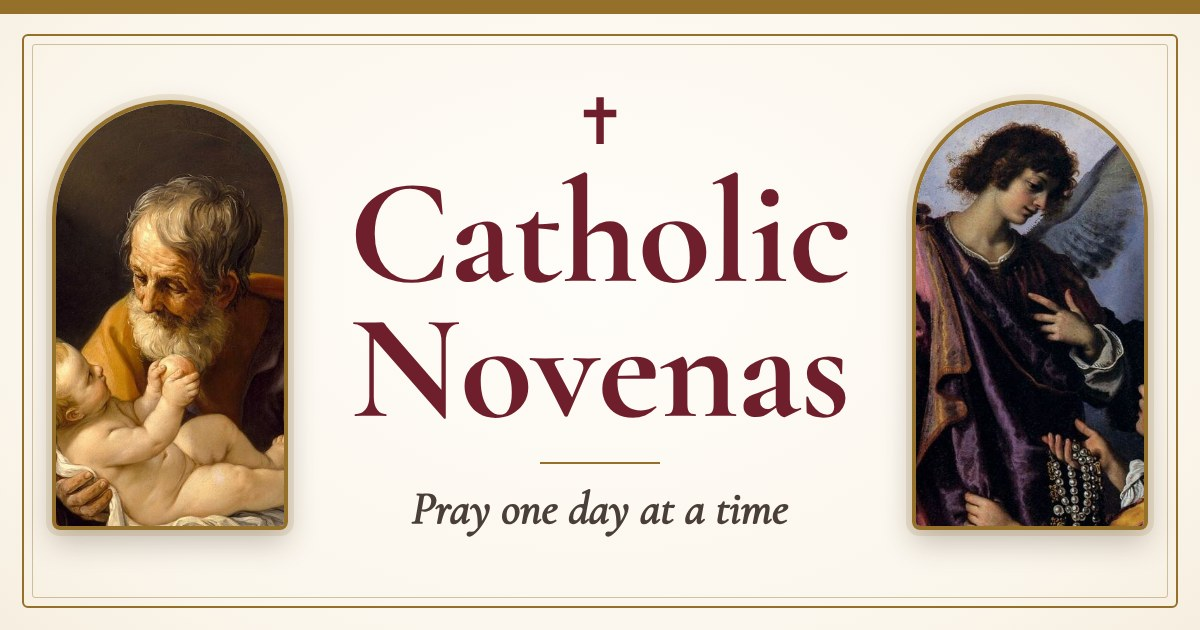
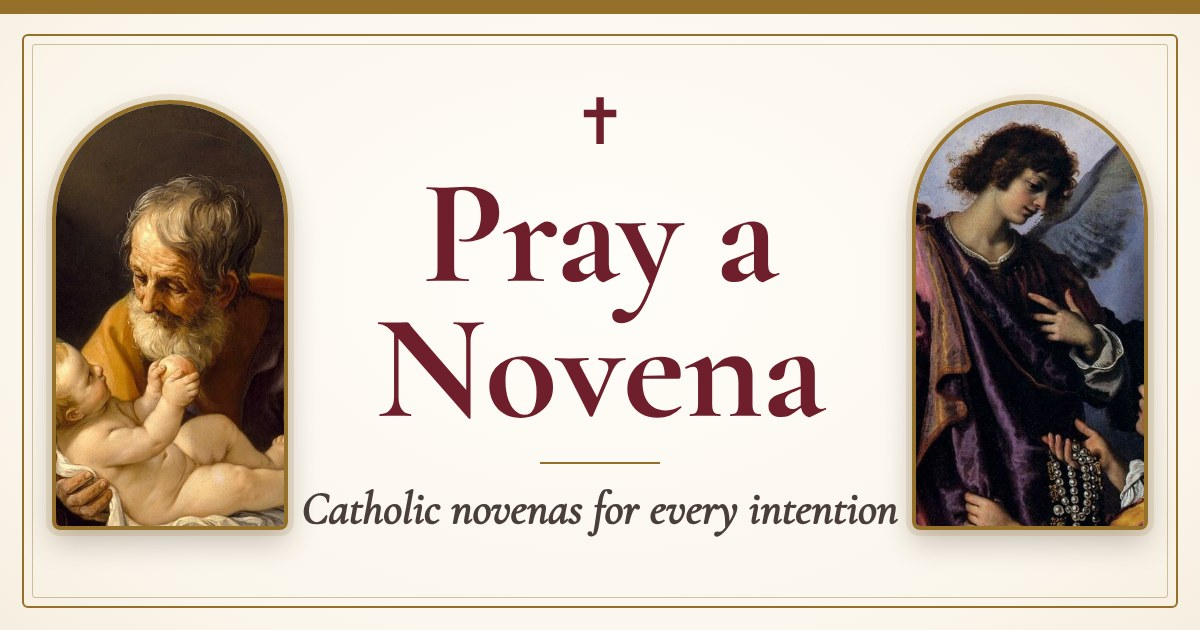
Rename the site to Pray a Novena (phase A: name and tagline; domain switch planned in PROJECT_LOG)

Changed region(s): [[0.2775, 0.2714, 0.7092, 0.5127], [0.2775, 0.5127, 0.7092, 0.6635], [0.2467, 0.7841, 0.74, 0.8444]]

diff --git a/site/about/index.html b/site/about/index.html
@@ -3,18 +3,18 @@
 <head>
 <meta charset="utf-8">
 <meta name="viewport" content="width=device-width, initial-scale=1, viewport-fit=cover">
-<title>What is a novena? | Catholic Novenas</title>
-<meta name="apple-mobile-web-app-title" content="Catholic Novenas">
+<title>What is a novena? | Pray a Novena</title>
+<meta name="apple-mobile-web-app-title" content="Pray a Novena">
 <meta name="description" content="What a novena is, how to pray one, and why Catholics ask the saints to pray for us.">
 <meta name="theme-color" content="#FFFDF9" media="(prefers-color-scheme: light)">
 <meta name="theme-color" content="#0E1524" media="(prefers-color-scheme: dark)">
 <meta property="og:type" content="website">
-<meta property="og:site_name" content="Catholic Novenas">
+<meta property="og:site_name" content="Pray a Novena">
 <meta property="og:url" content="https://catholic-novenas.netlify.app/about/">
-<meta property="og:title" content="What is a novena? | Catholic Novenas">
+<meta property="og:title" content="What is a novena? | Pray a Novena">
 <meta property="og:description" content="What a novena is, how to pray one, and why Catholics ask the saints to pray for us.">
-<meta property="og:image" content="https://catholic-novenas.netlify.app/og.jpg?v=5d6487b4">
-<meta property="og:image:alt" content="Catholic Novenas: pray one day at a time">
+<meta property="og:image" content="https://catholic-novenas.netlify.app/og.jpg?v=8e6cd507">
+<meta property="og:image:alt" content="Pray a Novena: Catholic novenas for every intention">
 <meta property="og:image:width" content="1200"><meta property="og:image:height" content="630">
 <meta name="twitter:card" content="summary_large_image">
 <link rel="canonical" href="https://catholic-novenas.netlify.app/about/">
@@ -224,7 +224,7 @@ q,.q{font-style:italic}
 <svg xmlns="http://www.w3.org/2000/svg" style="display:none" aria-hidden="true"><symbol id="i-cross" viewBox="0 0 256 256"><path d="M200,72H160V32a16,16,0,0,0-16-16H112A16,16,0,0,0,96,32V72H56A16,16,0,0,0,40,88v32a16,16,0,0,0,16,16H96v88a16,16,0,0,0,16,16h32a16,16,0,0,0,16-16V136h40a16,16,0,0,0,16-16V88A16,16,0,0,0,200,72Zm0,48H152a8,8,0,0,0-8,8v96H112V128a8,8,0,0,0-8-8H56V88h48a8,8,0,0,0,8-8V32h32V80a8,8,0,0,0,8,8h48Z"/></symbol><symbol id="i-sun" viewBox="0 0 256 256"><path d="M120,40V16a8,8,0,0,1,16,0V40a8,8,0,0,1-16,0Zm72,88a64,64,0,1,1-64-64A64.07,64.07,0,0,1,192,128Zm-16,0a48,48,0,1,0-48,48A48.05,48.05,0,0,0,176,128ZM58.34,69.66A8,8,0,0,0,69.66,58.34l-16-16A8,8,0,0,0,42.34,53.66Zm0,116.68-16,16a8,8,0,0,0,11.32,11.32l16-16a8,8,0,0,0-11.32-11.32ZM192,72a8,8,0,0,0,5.66-2.34l16-16a8,8,0,0,0-11.32-11.32l-16,16A8,8,0,0,0,192,72Zm5.66,114.34a8,8,0,0,0-11.32,11.32l16,16a8,8,0,0,0,11.32-11.32ZM48,128a8,8,0,0,0-8-8H16a8,8,0,0,0,0,16H40A8,8,0,0,0,48,128Zm80,80a8,8,0,0,0-8,8v24a8,8,0,0,0,16,0V216A8,8,0,0,0,128,208Zm112-88H216a8,8,0,0,0,0,16h24a8,8,0,0,0,0-16Z"/></symbol><symbol id="i-moon" viewBox="0 0 256 256"><path d="M233.54,142.23a8,8,0,0,0-8-2,88.08,88.08,0,0,1-109.8-109.8,8,8,0,0,0-10-10,104.84,104.84,0,0,0-52.91,37A104,104,0,0,0,136,224a103.09,103.09,0,0,0,62.52-20.88,104.84,104.84,0,0,0,37-52.91A8,8,0,0,0,233.54,142.23ZM188.9,190.34A88,88,0,0,1,65.66,67.11a89,89,0,0,1,31.4-26A106,106,0,0,0,96,56,104.11,104.11,0,0,0,200,160a106,106,0,0,0,14.92-1.06A89,89,0,0,1,188.9,190.34Z"/></symbol><symbol id="i-text-aa" viewBox="0 0 256 256"><path d="M87.24,52.59a8,8,0,0,0-14.48,0l-64,136a8,8,0,1,0,14.48,6.81L39.9,160h80.2l16.66,35.4a8,8,0,1,0,14.48-6.81ZM47.43,144,80,74.79,112.57,144ZM200,96c-12.76,0-22.73,3.47-29.63,10.32a8,8,0,0,0,11.26,11.36c3.8-3.77,10-5.68,18.37-5.68,13.23,0,24,9,24,20v3.22A42.76,42.76,0,0,0,200,128c-22.06,0-40,16.15-40,36s17.94,36,40,36a42.73,42.73,0,0,0,24-7.25,8,8,0,0,0,16-.75V132C240,112.15,222.06,96,200,96Zm0,88c-13.23,0-24-9-24-20s10.77-20,24-20,24,9,24,20S213.23,184,200,184Z"/></symbol><symbol id="i-arrow-left" viewBox="0 0 256 256"><path d="M224,128a8,8,0,0,1-8,8H59.31l58.35,58.34a8,8,0,0,1-11.32,11.32l-72-72a8,8,0,0,1,0-11.32l72-72a8,8,0,0,1,11.32,11.32L59.31,120H216A8,8,0,0,1,224,128Z"/></symbol><symbol id="i-arrow-right" viewBox="0 0 256 256"><path d="M221.66,133.66l-72,72a8,8,0,0,1-11.32-11.32L196.69,136H40a8,8,0,0,1,0-16H196.69L138.34,61.66a8,8,0,0,1,11.32-11.32l72,72A8,8,0,0,1,221.66,133.66Z"/></symbol></svg>
 <header class="bar">
   <div class="wrap">
-    <a class="home" href="../index.html"><svg class="i back-ic" aria-hidden="true" focusable="false"><use href="#i-arrow-left"/></svg><svg class="i mark" aria-hidden="true" focusable="false"><use href="#i-cross"/></svg><span class="name">Catholic Novenas</span><span class="sr"> (all novenas)</span></a>
+    <a class="home" href="../index.html"><svg class="i back-ic" aria-hidden="true" focusable="false"><use href="#i-arrow-left"/></svg><svg class="i mark" aria-hidden="true" focusable="false"><use href="#i-cross"/></svg><span class="name">Pray a Novena</span><span class="sr"> (all novenas)</span></a>
     <button class="iconbtn" id="sizeBtn" type="button" aria-expanded="false" aria-controls="sizer" aria-label="Text size" title="Text size"><svg class="i" aria-hidden="true" focusable="false"><use href="#i-text-aa"/></svg><span>Text</span></button>
     <div class="sizer" id="sizer" role="group" aria-label="Text size">
       <button type="button" data-scale="1" aria-label="Normal text" style="font-size:15px">A</button>
@@ -370,7 +370,7 @@ q,.q{font-style:italic}
   <section id="site" class="textonly">
     <h2 class="h2">About this site</h2>
     <div class="body">
-      <p class="lead">Catholic Novenas is a small, free library of novenas, made by Chav so that anyone can pray one day at a time. It is a personal project, not an official Church publication, and it has no ads, no accounts and nothing to buy.</p>
+      <p class="lead">Pray a Novena is a small, free library of Catholic novenas, made by Chav so that anyone can pray one day at a time. It is a personal project, not an official Church publication, and it has no ads, no accounts and nothing to buy.</p>
       <h3 class="h3">Why I made this</h3>
       <p>I’m Chav, a grateful Roman Catholic. My faith took root at Don Bosco Technical Center in Cebu, Philippines, so I am a Bosconian at heart, and today I serve at The Feast, a Catholic prayer gathering of the Light of Jesus Family.</p>
       <p>I work in computer science, software engineering and AI. Inspired by St.&nbsp;Carlo Acutis, I want to use those gifts to help people pray, and to give all the glory to God.</p>
@@ -384,7 +384,7 @@ q,.q{font-style:italic}
       <p>The traditional prayers here, such as the Our Father, the Hail Mary, the Glory Be and the Memorare, are the Church’s own. Scripture is quoted from the Revised Standard Version, Catholic Edition, and checked word for word.</p>
       <p>The opening prayers, reflections and daily prayers are new, written for this site with the help of AI. They aim to be faithful to Scripture and the teaching of the Church, but no priest has reviewed them yet, and they carry no imprimatur (a bishop’s approval to publish). Pray them as a private devotion, and take any question to your parish priest.</p>
       <h3 class="h3">Found a mistake?</h3>
-      <p>If you notice an error in a prayer, a Scripture reference or a saint’s story, please email <a href="mailto:hey.there.chav@gmail.com?subject=Catholic%20Novenas">hey.there.chav@gmail.com</a> so it can be corrected. Questions and suggestions are welcome at the same address. How this site handles your data is on the <a href="../privacy/index.html">privacy page</a>.</p>
+      <p>If you notice an error in a prayer, a Scripture reference or a saint’s story, please email <a href="mailto:hey.there.chav@gmail.com?subject=Pray%20a%20Novena">hey.there.chav@gmail.com</a> so it can be corrected. Questions and suggestions are welcome at the same address. How this site handles your data is on the <a href="../privacy/index.html">privacy page</a>.</p>
     </div>
   </section>
 

diff --git a/site/privacy/index.html b/site/privacy/index.html
@@ -3,15 +3,15 @@
 <head>
 <meta charset="utf-8">
 <meta name="viewport" content="width=device-width, initial-scale=1, viewport-fit=cover">
-<title>Privacy | Catholic Novenas</title>
-<meta name="apple-mobile-web-app-title" content="Catholic Novenas">
-<meta name="description" content="What Catholic Novenas keeps, and where: your progress and intentions stay on your device. No accounts, ads or cookies.">
+<title>Privacy | Pray a Novena</title>
+<meta name="apple-mobile-web-app-title" content="Pray a Novena">
+<meta name="description" content="What Pray a Novena keeps, and where: your progress and intentions stay on your device. No accounts, ads or cookies.">
 <meta name="theme-color" content="#FFFDF9" media="(prefers-color-scheme: light)">
 <meta name="theme-color" content="#0E1524" media="(prefers-color-scheme: dark)">
 <meta property="og:type" content="website">
-<meta property="og:site_name" content="Catholic Novenas">
+<meta property="og:site_name" content="Pray a Novena">
 <meta property="og:url" content="https://catholic-novenas.netlify.app/privacy/">
-<meta property="og:title" content="Privacy | Catholic Novenas">
+<meta property="og:title" content="Privacy | Pray a Novena">
 <meta property="og:description" content="Your progress and intentions stay on your device. No accounts, ads or cookies.">
 <link rel="canonical" href="https://catholic-novenas.netlify.app/privacy/">
 <link rel="icon" href="../favicon.svg" type="image/svg+xml">
@@ -115,7 +115,7 @@ ul.list li::marker{color:var(--gold)}
 <svg xmlns="http://www.w3.org/2000/svg" style="display:none" aria-hidden="true"><symbol id="i-cross" viewBox="0 0 256 256"><path d="M200,72H160V32a16,16,0,0,0-16-16H112A16,16,0,0,0,96,32V72H56A16,16,0,0,0,40,88v32a16,16,0,0,0,16,16H96v88a16,16,0,0,0,16,16h32a16,16,0,0,0,16-16V136h40a16,16,0,0,0,16-16V88A16,16,0,0,0,200,72Zm0,48H152a8,8,0,0,0-8,8v96H112V128a8,8,0,0,0-8-8H56V88h48a8,8,0,0,0,8-8V32h32V80a8,8,0,0,0,8,8h48Z"/></symbol><symbol id="i-sun" viewBox="0 0 256 256"><path d="M120,40V16a8,8,0,0,1,16,0V40a8,8,0,0,1-16,0Zm72,88a64,64,0,1,1-64-64A64.07,64.07,0,0,1,192,128Zm-16,0a48,48,0,1,0-48,48A48.05,48.05,0,0,0,176,128ZM58.34,69.66A8,8,0,0,0,69.66,58.34l-16-16A8,8,0,0,0,42.34,53.66Zm0,116.68-16,16a8,8,0,0,0,11.32,11.32l16-16a8,8,0,0,0-11.32-11.32ZM192,72a8,8,0,0,0,5.66-2.34l16-16a8,8,0,0,0-11.32-11.32l-16,16A8,8,0,0,0,192,72Zm5.66,114.34a8,8,0,0,0-11.32,11.32l16,16a8,8,0,0,0,11.32-11.32ZM48,128a8,8,0,0,0-8-8H16a8,8,0,0,0,0,16H40A8,8,0,0,0,48,128Zm80,80a8,8,0,0,0-8,8v24a8,8,0,0,0,16,0V216A8,8,0,0,0,128,208Zm112-88H216a8,8,0,0,0,0,16h24a8,8,0,0,0,0-16Z"/></symbol><symbol id="i-moon" viewBox="0 0 256 256"><path d="M233.54,142.23a8,8,0,0,0-8-2,88.08,88.08,0,0,1-109.8-109.8,8,8,0,0,0-10-10,104.84,104.84,0,0,0-52.91,37A104,104,0,0,0,136,224a103.09,103.09,0,0,0,62.52-20.88,104.84,104.84,0,0,0,37-52.91A8,8,0,0,0,233.54,142.23ZM188.9,190.34A88,88,0,0,1,65.66,67.11a89,89,0,0,1,31.4-26A106,106,0,0,0,96,56,104.11,104.11,0,0,0,200,160a106,106,0,0,0,14.92-1.06A89,89,0,0,1,188.9,190.34Z"/></symbol><symbol id="i-text-aa" viewBox="0 0 256 256"><path d="M87.24,52.59a8,8,0,0,0-14.48,0l-64,136a8,8,0,1,0,14.48,6.81L39.9,160h80.2l16.66,35.4a8,8,0,1,0,14.48-6.81ZM47.43,144,80,74.79,112.57,144ZM200,96c-12.76,0-22.73,3.47-29.63,10.32a8,8,0,0,0,11.26,11.36c3.8-3.77,10-5.68,18.37-5.68,13.23,0,24,9,24,20v3.22A42.76,42.76,0,0,0,200,128c-22.06,0-40,16.15-40,36s17.94,36,40,36a42.73,42.73,0,0,0,24-7.25,8,8,0,0,0,16-.75V132C240,112.15,222.06,96,200,96Zm0,88c-13.23,0-24-9-24-20s10.77-20,24-20,24,9,24,20S213.23,184,200,184Z"/></symbol><symbol id="i-arrow-left" viewBox="0 0 256 256"><path d="M224,128a8,8,0,0,1-8,8H59.31l58.35,58.34a8,8,0,0,1-11.32,11.32l-72-72a8,8,0,0,1,0-11.32l72-72a8,8,0,0,1,11.32,11.32L59.31,120H216A8,8,0,0,1,224,128Z"/></symbol></svg>
 <header class="bar">
   <div class="wrap">
-    <a class="home" href="../index.html"><svg class="i back-ic" aria-hidden="true" focusable="false"><use href="#i-arrow-left"/></svg><svg class="i mark" aria-hidden="true" focusable="false"><use href="#i-cross"/></svg><span class="name">Catholic Novenas</span><span class="sr"> (all novenas)</span></a>
+    <a class="home" href="../index.html"><svg class="i back-ic" aria-hidden="true" focusable="false"><use href="#i-arrow-left"/></svg><svg class="i mark" aria-hidden="true" focusable="false"><use href="#i-cross"/></svg><span class="name">Pray a Novena</span><span class="sr"> (all novenas)</span></a>
     <button class="iconbtn" id="sizeBtn" type="button" aria-expanded="false" aria-controls="sizer" aria-label="Text size" title="Text size"><svg class="i" aria-hidden="true" focusable="false"><use href="#i-text-aa"/></svg><span>Text</span></button>
     <div class="sizer" id="sizer" role="group" aria-label="Text size">
       <button type="button" data-scale="1" aria-label="Normal text" style="font-size:15px">A</button>
@@ -162,7 +162,7 @@ ul.list li::marker{color:var(--gold)}
     </div>
     <p style="margin-top:12px">You can also clear this site’s data in your browser’s settings.</p>
 
-    <p class="updated">Questions about privacy: <a href="mailto:hey.there.chav@gmail.com?subject=Catholic%20Novenas%20privacy">hey.there.chav@gmail.com</a>. Last updated 20&nbsp;November&nbsp;2026.</p>
+    <p class="updated">Questions about privacy: <a href="mailto:hey.there.chav@gmail.com?subject=Pray%20a%20Novena%20privacy">hey.there.chav@gmail.com</a>. Last updated 20&nbsp;November&nbsp;2026.</p>
   </div>
 </main>
 <footer class="site-foot">

diff --git a/templates/about.html b/templates/about.html
@@ -3,8 +3,8 @@
 <head>
 <meta charset="utf-8">
 <meta name="viewport" content="width=device-width, initial-scale=1, viewport-fit=cover">
-<title>What is a novena? | Catholic Novenas</title>
-<meta name="apple-mobile-web-app-title" content="Catholic Novenas">
+<title>What is a novena? | Pray a Novena</title>
+<meta name="apple-mobile-web-app-title" content="Pray a Novena">
 <meta name="description" content="What a novena is, how to pray one, and why Catholics ask the saints to pray for us.">
 <meta name="theme-color" content="#FFFDF9" media="(prefers-color-scheme: light)">
 <meta name="theme-color" content="#0E1524" media="(prefers-color-scheme: dark)">
@@ -196,7 +196,7 @@ q,.q{font-style:italic}
 {{SPRITE}}
 <header class="bar">
   <div class="wrap">
-    <a class="home" href="{{HOME_HREF}}"><svg class="i back-ic" aria-hidden="true" focusable="false"><use href="#i-arrow-left"/></svg><svg class="i mark" aria-hidden="true" focusable="false"><use href="#i-cross"/></svg><span class="name">Catholic Novenas</span><span class="sr"> (all novenas)</span></a>
+    <a class="home" href="{{HOME_HREF}}"><svg class="i back-ic" aria-hidden="true" focusable="false"><use href="#i-arrow-left"/></svg><svg class="i mark" aria-hidden="true" focusable="false"><use href="#i-cross"/></svg><span class="name">Pray a Novena</span><span class="sr"> (all novenas)</span></a>
     <button class="iconbtn" id="sizeBtn" type="button" aria-expanded="false" aria-controls="sizer" aria-label="Text size" title="Text size"><svg class="i" aria-hidden="true" focusable="false"><use href="#i-text-aa"/></svg><span>Text</span></button>
     <div class="sizer" id="sizer" role="group" aria-label="Text size">
       <button type="button" data-scale="1" aria-label="Normal text" style="font-size:15px">A</button>
@@ -330,7 +330,7 @@ q,.q{font-style:italic}
   <section id="site" class="textonly">
     <h2 class="h2">About this site</h2>
     <div class="body">
-      <p class="lead">Catholic Novenas is a small, free library of novenas, made by Chav so that anyone can pray one day at a time. It is a personal project, not an official Church publication, and it has no ads, no accounts and nothing to buy.</p>
+      <p class="lead">Pray a Novena is a small, free library of Catholic novenas, made by Chav so that anyone can pray one day at a time. It is a personal project, not an official Church publication, and it has no ads, no accounts and nothing to buy.</p>
       <h3 class="h3">Why I made this</h3>
       <p>I’m Chav, a grateful Roman Catholic. My faith took root at Don Bosco Technical Center in Cebu, Philippines, so I am a Bosconian at heart, and today I serve at The Feast, a Catholic prayer gathering of the Light of Jesus Family.</p>
       <p>I work in computer science, software engineering and AI. Inspired by St.&nbsp;Carlo Acutis, I want to use those gifts to help people pray, and to give all the glory to God.</p>
@@ -344,7 +344,7 @@ q,.q{font-style:italic}
       <p>The traditional prayers here, such as the Our Father, the Hail Mary, the Glory Be and the Memorare, are the Church’s own. Scripture is quoted from the Revised Standard Version, Catholic Edition, and checked word for word.</p>
       <p>The opening prayers, reflections and daily prayers are new, written for this site with the help of AI. They aim to be faithful to Scripture and the teaching of the Church, but no priest has reviewed them yet, and they carry no imprimatur (a bishop’s approval to publish). Pray them as a private devotion, and take any question to your parish priest.</p>
       <h3 class="h3">Found a mistake?</h3>
-      <p>If you notice an error in a prayer, a Scripture reference or a saint’s story, please email <a href="mailto:hey.there.chav@gmail.com?subject=Catholic%20Novenas">hey.there.chav@gmail.com</a> so it can be corrected. Questions and suggestions are welcome at the same address. How this site handles your data is on the <a href="{{UP}}privacy/index.html">privacy page</a>.</p>
+      <p>If you notice an error in a prayer, a Scripture reference or a saint’s story, please email <a href="mailto:hey.there.chav@gmail.com?subject=Pray%20a%20Novena">hey.there.chav@gmail.com</a> so it can be corrected. Questions and suggestions are welcome at the same address. How this site handles your data is on the <a href="{{UP}}privacy/index.html">privacy page</a>.</p>
     </div>
   </section>
 

diff --git a/site/index.html b/site/index.html
@@ -3,18 +3,18 @@
 <head>
 <meta charset="utf-8">
 <meta name="viewport" content="width=device-width, initial-scale=1, viewport-fit=cover">
-<title>Catholic Novenas: 9 days of prayer, one day at a time</title>
-<meta name="apple-mobile-web-app-title" content="Catholic Novenas">
+<title>Pray a Novena · Catholic novenas for every intention</title>
+<meta name="apple-mobile-web-app-title" content="Pray a Novena">
 <meta name="description" content="9-day Catholic novenas with Scripture, reflections and the prayers of the saints, on your phone or on paper.">
 <meta name="theme-color" content="#FFFDF9" media="(prefers-color-scheme: light)">
 <meta name="theme-color" content="#0E1524" media="(prefers-color-scheme: dark)">
 <meta property="og:type" content="website">
-<meta property="og:site_name" content="Catholic Novenas">
+<meta property="og:site_name" content="Pray a Novena">
 <meta property="og:url" content="https://catholic-novenas.netlify.app/">
-<meta property="og:title" content="Catholic Novenas: 9 days of prayer, one day at a time">
+<meta property="og:title" content="Pray a Novena · Catholic novenas for every intention">
 <meta property="og:description" content="9-day Catholic novenas with Scripture, reflections and the prayers of the saints, on your phone or on paper.">
-<meta property="og:image" content="https://catholic-novenas.netlify.app/og.jpg?v=5d6487b4">
-<meta property="og:image:alt" content="Catholic Novenas: pray one day at a time">
+<meta property="og:image" content="https://catholic-novenas.netlify.app/og.jpg?v=8e6cd507">
+<meta property="og:image:alt" content="Pray a Novena: Catholic novenas for every intention">
 <meta property="og:image:type" content="image/jpeg">
 <meta property="og:image:width" content="1200"><meta property="og:image:height" content="630">
 <meta name="twitter:card" content="summary_large_image">
@@ -206,7 +206,7 @@ h1{font-family:var(--display);font-weight:700;color:var(--wine);font-size:clamp(
 <header class="bar">
   <div class="wrap">
     <svg class="i mark" aria-hidden="true" focusable="false"><use href="#i-cross"/></svg>
-    <span class="name">Catholic Novenas</span>
+    <span class="name">Pray a Novena</span>
     <span class="spacer"></span>
     <a class="navlink" href="about/index.html">About</a>
     <button class="iconbtn" id="sizeBtn" type="button" aria-expanded="false" aria-controls="sizer" aria-label="Text size" title="Text size"><svg class="i" aria-hidden="true" focusable="false"><use href="#i-text-aa"/></svg><span>Text</span></button>
@@ -223,8 +223,8 @@ h1{font-family:var(--display);font-weight:700;color:var(--wine);font-size:clamp(
   <div class="hero">
     <div class="cross" aria-hidden="true"><svg class="i" aria-hidden="true" focusable="false"><use href="#i-cross"/></svg></div>
     <p class="kicker">9 days of prayer</p>
-    <h1>Catholic Novenas</h1>
-    <p class="lede">Pray one day at a time.</p>
+    <h1>Pray a Novena</h1>
+    <p class="lede">Catholic novenas for every intention.</p>
   </div>
 
   <h2 class="h2" id="listHead" tabindex="-1">Choose a novena</h2>

diff --git a/templates/library.html b/templates/library.html
@@ -3,18 +3,18 @@
 <head>
 <meta charset="utf-8">
 <meta name="viewport" content="width=device-width, initial-scale=1, viewport-fit=cover">
-<title>Catholic Novenas: 9 days of prayer, one day at a time</title>
-<meta name="apple-mobile-web-app-title" content="Catholic Novenas">
+<title>Pray a Novena · Catholic novenas for every intention</title>
+<meta name="apple-mobile-web-app-title" content="Pray a Novena">
 <meta name="description" content="9-day Catholic novenas with Scripture, reflections and the prayers of the saints, on your phone or on paper.">
 <meta name="theme-color" content="#FFFDF9" media="(prefers-color-scheme: light)">
 <meta name="theme-color" content="#0E1524" media="(prefers-color-scheme: dark)">
 <meta property="og:type" content="website">
-<meta property="og:site_name" content="Catholic Novenas">
+<meta property="og:site_name" content="Pray a Novena">
 <meta property="og:url" content="https://catholic-novenas.netlify.app/">
-<meta property="og:title" content="Catholic Novenas: 9 days of prayer, one day at a time">
+<meta property="og:title" content="Pray a Novena · Catholic novenas for every intention">
 <meta property="og:description" content="9-day Catholic novenas with Scripture, reflections and the prayers of the saints, on your phone or on paper.">
 <meta property="og:image" content="https://catholic-novenas.netlify.app/og.jpg?v={{OG_VER}}">
-<meta property="og:image:alt" content="Catholic Novenas: pray one day at a time">
+<meta property="og:image:alt" content="Pray a Novena: Catholic novenas for every intention">
 <meta property="og:image:type" content="image/jpeg">
 <meta property="og:image:width" content="1200"><meta property="og:image:height" content="630">
 <meta name="twitter:card" content="summary_large_image">
@@ -190,7 +190,7 @@ h1{font-family:var(--display);font-weight:700;color:var(--wine);font-size:clamp(
 <header class="bar">
   <div class="wrap">
     <svg class="i mark" aria-hidden="true" focusable="false"><use href="#i-cross"/></svg>
-    <span class="name">Catholic Novenas</span>
+    <span class="name">Pray a Novena</span>
     <span class="spacer"></span>
     <a class="navlink" href="about/index.html">About</a>
     <button class="iconbtn" id="sizeBtn" type="button" aria-expanded="false" aria-controls="sizer" aria-label="Text size" title="Text size"><svg class="i" aria-hidden="true" focusable="false"><use href="#i-text-aa"/></svg><span>Text</span></button>
@@ -207,8 +207,8 @@ h1{font-family:var(--display);font-weight:700;color:var(--wine);font-size:clamp(
   <div class="hero">
     <div class="cross" aria-hidden="true"><svg class="i" aria-hidden="true" focusable="false"><use href="#i-cross"/></svg></div>
     <p class="kicker">9 days of prayer</p>
-    <h1>Catholic Novenas</h1>
-    <p class="lede">Pray one day at a time.</p>
+    <h1>Pray a Novena</h1>
+    <p class="lede">Catholic novenas for every intention.</p>
   </div>
 
   <h2 class="h2" id="listHead" tabindex="-1">Choose a novena</h2>

diff --git a/site/sw.js b/site/sw.js
@@ -1,7 +1,7 @@
-/* Catholic Novenas service worker: keeps the whole library on this device so it opens without signal.
+/* Pray a Novena service worker: keeps the whole library on this device so it opens without signal.
    Pages: network first (corrections arrive right away), the saved copy when offline or after 4000 ms.
    Everything else (images, fonts, icons): saved once and reused. Built by tools/build.py; do not edit site/sw.js. */
-var VERSION = "3b0c38c17efb";
+var VERSION = "d70e9bcebee5";
 var CACHE = "novenas-" + VERSION;
 var FILES = ["apple-touch-icon.png", "favicon.ico", "favicon.svg", "icon-192.png", "icon-512.png", "icon-maskable-512.png", "index.html", "./", "manifest.webmanifest", "about/index.html", "about/", "about/img/angelus.jpg", "about/img/aquinas.jpg", "about/img/augustine.jpg", "about/img/camillus.jpg", "about/img/cupertino.jpg", "about/img/lamb.jpg", "about/img/longo.jpg", "about/img/paul.jpg", "about/img/pentecost.jpg", "fonts/cormorant-garamond-italic.woff2", "fonts/cormorant-garamond.woff2", "fonts/eb-garamond-italic.woff2", "fonts/eb-garamond.woff2", "fonts/fonts.css", "gift-of-knowledge/index.html", "gift-of-knowledge/", "gift-of-knowledge/img/albert.jpg", "gift-of-knowledge/img/albert_face.jpg", "gift-of-knowledge/img/augustine.jpg", "gift-of-knowledge/img/augustine_face.jpg", "gift-of-knowledge/img/hildegard.jpg", "gift-of-knowledge/img/hildegard_face.jpg", "gift-of-knowledge/img/mary_face.jpg", "healing/index.html", "healing/", "healing/img/bernadette.jpg", "healing/img/bernadette_face.jpg", "healing/img/camillus.jpg", "healing/img/camillus_face.jpg", "healing/img/mary_face.jpg", "healing/img/raphael.jpg", "healing/img/raphael_face.jpg", "impossible-cases/index.html", "impossible-cases/", "impossible-cases/img/jude.jpg", "impossible-cases/img/jude_face.jpg", "impossible-cases/img/rita.jpg", "impossible-cases/img/rita_face.jpg", "passing-an-exam/index.html", "passing-an-exam/", "passing-an-exam/img/aquinas.jpg", "passing-an-exam/img/aquinas_face.jpg", "passing-an-exam/img/cupertino.jpg", "passing-an-exam/img/cupertino_face.jpg", "passing-an-exam/img/mary_face.jpg", "privacy/index.html", "privacy/", "relief-from-debt/index.html", "relief-from-debt/", "relief-from-debt/img/joseph.jpg", "relief-from-debt/img/joseph_face.jpg", "relief-from-debt/img/jude.jpg", "relief-from-debt/img/jude_face.jpg", "relief-from-debt/img/mary_face.jpg", "relief-from-debt/img/rita.jpg", "relief-from-debt/img/rita_face.jpg", "work-and-livelihood/index.html", "work-and-livelihood/", "work-and-livelihood/img/cajetan.jpg", "work-and-livelihood/img/cajetan_face.jpg", "work-and-livelihood/img/homobonus.jpg", "work-and-livelihood/img/homobonus_face.jpg", "work-and-livelihood/img/joseph.jpg", "work-and-livelihood/img/joseph_face.jpg", "work-and-livelihood/img/mary_face.jpg"];
 var TIMEOUT = 4000;

diff --git a/templates/privacy.html b/templates/privacy.html
@@ -3,9 +3,9 @@
 <head>
 <meta charset="utf-8">
 <meta name="viewport" content="width=device-width, initial-scale=1, viewport-fit=cover">
-<title>Privacy | Catholic Novenas</title>
-<meta name="apple-mobile-web-app-title" content="Catholic Novenas">
-<meta name="description" content="What Catholic Novenas keeps, and where: your progress and intentions stay on your device. No accounts, ads or cookies.">
+<title>Privacy | Pray a Novena</title>
+<meta name="apple-mobile-web-app-title" content="Pray a Novena">
+<meta name="description" content="What Pray a Novena keeps, and where: your progress and intentions stay on your device. No accounts, ads or cookies.">
 <meta name="theme-color" content="#FFFDF9" media="(prefers-color-scheme: light)">
 <meta name="theme-color" content="#0E1524" media="(prefers-color-scheme: dark)">
 {{HEAD_META}}
@@ -91,7 +91,7 @@ ul.list li::marker{color:var(--gold)}
 {{SPRITE}}
 <header class="bar">
   <div class="wrap">
-    <a class="home" href="{{HOME_HREF}}"><svg class="i back-ic" aria-hidden="true" focusable="false"><use href="#i-arrow-left"/></svg><svg class="i mark" aria-hidden="true" focusable="false"><use href="#i-cross"/></svg><span class="name">Catholic Novenas</span><span class="sr"> (all novenas)</span></a>
+    <a class="home" href="{{HOME_HREF}}"><svg class="i back-ic" aria-hidden="true" focusable="false"><use href="#i-arrow-left"/></svg><svg class="i mark" aria-hidden="true" focusable="false"><use href="#i-cross"/></svg><span class="name">Pray a Novena</span><span class="sr"> (all novenas)</span></a>
     <button class="iconbtn" id="sizeBtn" type="button" aria-expanded="false" aria-controls="sizer" aria-label="Text size" title="Text size"><svg class="i" aria-hidden="true" focusable="false"><use href="#i-text-aa"/></svg><span>Text</span></button>
     <div class="sizer" id="sizer" role="group" aria-label="Text size">
       <button type="button" data-scale="1" aria-label="Normal text" style="font-size:15px">A</button>
@@ -138,7 +138,7 @@ ul.list li::marker{color:var(--gold)}
     </div>
     <p style="margin-top:12px">You can also clear this site’s data in your browser’s settings.</p>
 
-    <p class="updated">Questions about privacy: <a href="mailto:hey.there.chav@gmail.com?subject=Catholic%20Novenas%20privacy">hey.there.chav@gmail.com</a>. Last updated 20&nbsp;November&nbsp;2026.</p>
+    <p class="updated">Questions about privacy: <a href="mailto:hey.there.chav@gmail.com?subject=Pray%20a%20Novena%20privacy">hey.there.chav@gmail.com</a>. Last updated 20&nbsp;November&nbsp;2026.</p>
   </div>
 </main>
 {{FOOTER}}

diff --git a/site/impossible-cases/index.html b/site/impossible-cases/index.html
@@ -3,14 +3,14 @@
 <head>
 <meta charset="utf-8">
 <meta name="viewport" content="width=device-width, initial-scale=1, viewport-fit=cover">
-<title>Novena for Impossible Cases | Catholic Novenas</title>
+<title>Novena for Impossible Cases | Pray a Novena</title>
 <meta name="description" content="A 9-day Catholic novena for a desperate or impossible case, through St. Jude Thaddeus, St. Rita of Cascia and Our Lady, Undoer of Knots.">
 <meta name="theme-color" content="#FFFDF9" media="(prefers-color-scheme: light)">
 <meta name="theme-color" content="#0E1524" media="(prefers-color-scheme: dark)">
 <meta property="og:type" content="website">
-<meta property="og:site_name" content="Catholic Novenas">
+<meta property="og:site_name" content="Pray a Novena">
 <meta property="og:url" content="https://catholic-novenas.netlify.app/impossible-cases/">
-<meta property="og:title" content="Novena for a Desperate or Impossible Case | Catholic Novenas">
+<meta property="og:title" content="Novena for a Desperate or Impossible Case | Pray a Novena">
 <meta property="og:description" content="9 days of prayer for a desperate or impossible case, through St. Jude, St. Rita and Our Lady, Undoer of Knots.">
 <meta property="og:image" content="https://catholic-novenas.netlify.app/impossible-cases/og.jpg?v=3a2f9485">
 <meta property="og:image:alt" content="Novena for Impossible Cases: 9 days of hope when all seems lost">

diff --git a/site/gift-of-knowledge/index.html b/site/gift-of-knowledge/index.html
@@ -3,14 +3,14 @@
 <head>
 <meta charset="utf-8">
 <meta name="viewport" content="width=device-width, initial-scale=1, viewport-fit=cover">
-<title>Novena for Knowledge | Catholic Novenas</title>
+<title>Novena for Knowledge | Pray a Novena</title>
 <meta name="description" content="A 9-day Catholic novena for the gift of knowledge, through Our Lady of Good Counsel, St. Augustine, St. Albert the Great and St. Hildegard of Bingen.">
 <meta name="theme-color" content="#FFFDF9" media="(prefers-color-scheme: light)">
 <meta name="theme-color" content="#0E1524" media="(prefers-color-scheme: dark)">
 <meta property="og:type" content="website">
-<meta property="og:site_name" content="Catholic Novenas">
+<meta property="og:site_name" content="Pray a Novena">
 <meta property="og:url" content="https://catholic-novenas.netlify.app/gift-of-knowledge/">
-<meta property="og:title" content="Novena for the Gift of Knowledge | Catholic Novenas">
+<meta property="og:title" content="Novena for the Gift of Knowledge | Pray a Novena">
 <meta property="og:description" content="9 days of prayer for the gift of knowledge, through Our Lady of Good Counsel, St. Augustine, St. Albert and St. Hildegard.">
 <meta property="og:image" content="https://catholic-novenas.netlify.app/gift-of-knowledge/og.jpg?v=749c108d">
 <meta property="og:image:alt" content="Novena for Knowledge: 9 days seeking God in creation and prayer">

diff --git a/site/passing-an-exam/index.html b/site/passing-an-exam/index.html
@@ -3,14 +3,14 @@
 <head>
 <meta charset="utf-8">
 <meta name="viewport" content="width=device-width, initial-scale=1, viewport-fit=cover">
-<title>Novena for Passing an Exam | Catholic Novenas</title>
+<title>Novena for Passing an Exam | Pray a Novena</title>
 <meta name="description" content="A 9-day Catholic novena for anyone preparing for an exam, through Our Lady, Seat of Wisdom, St. Joseph of Cupertino and St. Thomas Aquinas.">
 <meta name="theme-color" content="#FFFDF9" media="(prefers-color-scheme: light)">
 <meta name="theme-color" content="#0E1524" media="(prefers-color-scheme: dark)">
 <meta property="og:type" content="website">
-<meta property="og:site_name" content="Catholic Novenas">
+<meta property="og:site_name" content="Pray a Novena">
 <meta property="og:url" content="https://catholic-novenas.netlify.app/passing-an-exam/">
-<meta property="og:title" content="Novena for Passing an Exam | Catholic Novenas">
+<meta property="og:title" content="Novena for Passing an Exam | Pray a Novena">
 <meta property="og:description" content="9 days of prayer for passing an exam, through Our Lady, Seat of Wisdom, St. Joseph of Cupertino and St. Thomas Aquinas.">
 <meta property="og:image" content="https://catholic-novenas.netlify.app/passing-an-exam/og.jpg?v=3ea0af95">
 <meta property="og:image:alt" content="Novena for Passing an Exam: 9 days of wisdom, diligence and peace">

diff --git a/site/work-and-livelihood/index.html b/site/work-and-livelihood/index.html
@@ -3,14 +3,14 @@
 <head>
 <meta charset="utf-8">
 <meta name="viewport" content="width=device-width, initial-scale=1, viewport-fit=cover">
-<title>Novena for Work &amp; Livelihood | Catholic Novenas</title>
+<title>Novena for Work &amp; Livelihood | Pray a Novena</title>
 <meta name="description" content="A 9-day Catholic novena for job seekers, workers and business owners, through St. Joseph, St. Cajetan and St. Homobonus.">
 <meta name="theme-color" content="#FFFDF9" media="(prefers-color-scheme: light)">
 <meta name="theme-color" content="#0E1524" media="(prefers-color-scheme: dark)">
 <meta property="og:type" content="website">
-<meta property="og:site_name" content="Catholic Novenas">
+<meta property="og:site_name" content="Pray a Novena">
 <meta property="og:url" content="https://catholic-novenas.netlify.app/work-and-livelihood/">
-<meta property="og:title" content="Novena for Work and Livelihood | Catholic Novenas">
+<meta property="og:title" content="Novena for Work and Livelihood | Pray a Novena">
 <meta property="og:description" content="9 days of prayer for work and livelihood, through St. Joseph, St. Cajetan and St. Homobonus.">
 <meta property="og:image" content="https://catholic-novenas.netlify.app/work-and-livelihood/og.jpg?v=38495268">
 <meta property="og:image:alt" content="Novena for Work &amp; Livelihood: 9 days of offering our work to God">

diff --git a/site/healing/index.html b/site/healing/index.html
@@ -3,14 +3,14 @@
 <head>
 <meta charset="utf-8">
 <meta name="viewport" content="width=device-width, initial-scale=1, viewport-fit=cover">
-<title>Novena for Healing | Catholic Novenas</title>
+<title>Novena for Healing | Pray a Novena</title>
 <meta name="description" content="A 9-day Catholic novena for the healing of the sick, through Our Lady of Lourdes, St. Raphael, St. Camillus de Lellis and St. Bernadette.">
 <meta name="theme-color" content="#FFFDF9" media="(prefers-color-scheme: light)">
 <meta name="theme-color" content="#0E1524" media="(prefers-color-scheme: dark)">
 <meta property="og:type" content="website">
-<meta property="og:site_name" content="Catholic Novenas">
+<meta property="og:site_name" content="Pray a Novena">
 <meta property="og:url" content="https://catholic-novenas.netlify.app/healing/">
-<meta property="og:title" content="Novena for the Healing of the Sick | Catholic Novenas">
+<meta property="og:title" content="Novena for the Healing of the Sick | Pray a Novena">
 <meta property="og:description" content="9 days of prayer for the healing of the sick, through Our Lady of Lourdes, St. Raphael, St. Camillus and St. Bernadette.">
 <meta property="og:image" content="https://catholic-novenas.netlify.app/healing/og.jpg?v=f306137c">
 <meta property="og:image:alt" content="Novena for Healing: 9 days of hope in Christ who heals">
